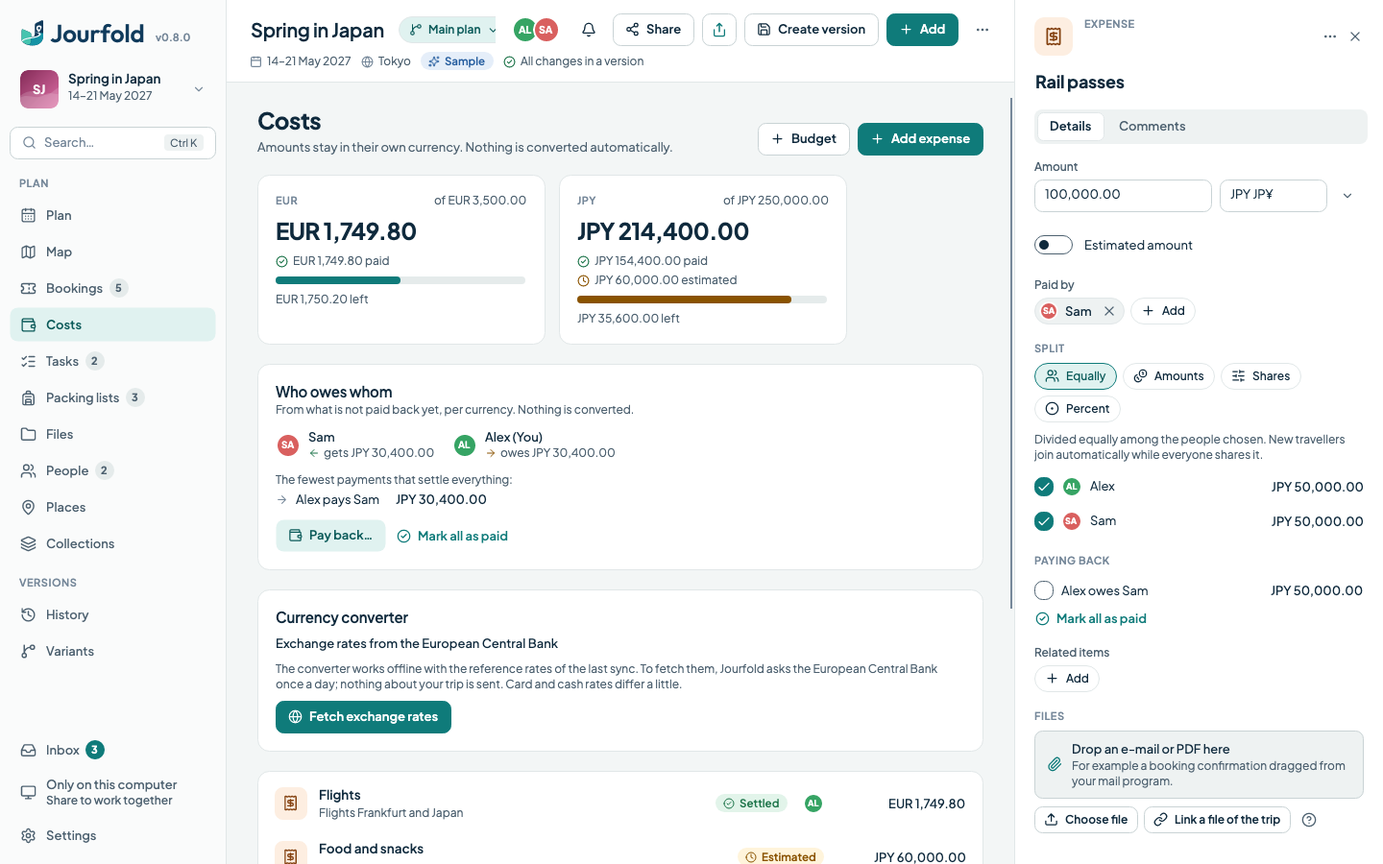
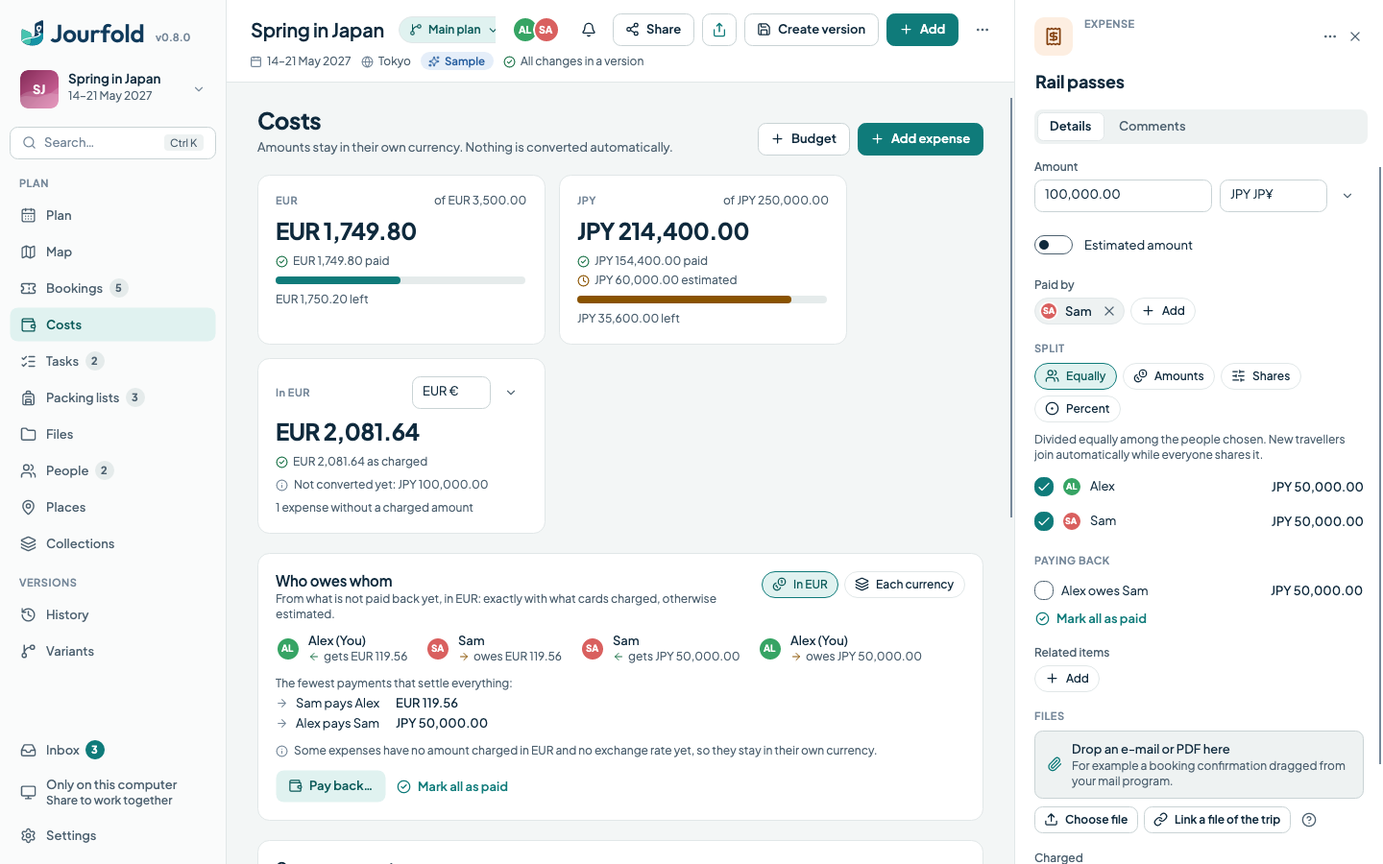
Expenses keep what the card charged, and costs and paying back show in euros
The details of an expense in another currency take the amount the card
statement shows in the home currency; the rate is kept with it. Costs add
a total in the home currency, which is chosen there, and who owes whom
and the pay function work in it: exactly where a charged amount was
entered, otherwise estimated with reference rates and marked with ≈.
"Each currency" shows debts in their own currencies. The phone shows the
charged amount. The sample trip has two card amounts in euros, and the
costs screenshot is refreshed.

diff --git a/src/Jourfold.Desktop/Views/ExpenseViews.cs b/src/Jourfold.Desktop/Views/ExpenseViews.cs
@@ -148,8 +148,17 @@ public static class ExpenseViews
     {
         var m = w.Model; var s = m.Strings; var trip = m.Trip!;
         if (Expenses.Debts(trip).Count == 0) return null;
-        var balances = Expenses.Balances(trip);
-        var body = Ui.V(12, Ui.V(2, Ui.Text(s["WhoOwesWhom"], "h3"), Ui.Text(s["WhoOwesWhomHint"], "caption").Also(t => t.TextWrapping = TextWrapping.Wrap)));
+        var balances = Expenses.Balances(trip, m.SettleCurrency, m.EstimateRates);
+        var heading = Ui.V(2, Ui.Text(s["WhoOwesWhom"], "h3"), Ui.Text(m.SettleInHomeCurrency ? string.Format(s["WhoOwesWhomHintIn"], m.HomeCurrency) : s["WhoOwesWhomHint"], "caption").Also(t => t.TextWrapping = TextWrapping.Wrap));
+        // With expenses in more than one currency, debts can be shown in the home currency or each in its own.
+        Control? toggle = null;
+        if (Expenses.Debts(trip).Select(d => d.Currency).Append(m.HomeCurrency).Distinct().Count() > 1)
+        {
+            var home = Ui.Choice(string.Format(s["SettleInHome"], m.HomeCurrency), "coins", m.SettleInHomeCurrency, "chip"); home.Click += (_, _) => m.SettleInHomeCurrency = true;
+            var each = Ui.Choice(s["SettlePerCurrency"], "layers", !m.SettleInHomeCurrency, "chip"); each.Click += (_, _) => m.SettleInHomeCurrency = false;
+            toggle = Ui.H(6, home, each).Also(p => AutomationProperties.SetName(p, s["SettleIn"]));
+        }
+        var body = Ui.V(12, Ui.Columns("*,Auto", heading, toggle?.Also(t => t.VerticalAlignment = VerticalAlignment.Top)));
         if (balances.Count == 0)
         {
             body.Children.Add(Notice("circle-check", "Success", s["AllEven"]));
@@ -160,21 +169,77 @@ public static class ExpenseViews
         {
             var name = Name(trip, b.Person) + (m.Me?.Id == b.Person ? " (" + s["You"] + ")" : "");
             var owed = b.Net > 0;
-            var line = string.Format(s[owed ? "BalanceOwed" : "BalanceOwes"], Formats.Money(Math.Abs(b.Net), b.Currency));
+            var line = string.Format(s[owed ? "BalanceOwed" : "BalanceOwes"], (b.Estimated ? "≈ " : "") + Formats.Money(Math.Abs(b.Net), b.Currency));
             people.Children.Add(Ui.H(8, Ui.Avatar(Name(trip, b.Person), 26), Ui.V(0, Ui.Line(name, "strong"), Ui.H(4, Ui.Icon(owed ? "arrow-left" : "arrow-right", 12, owed ? "Success" : "Warning"), Ui.Line(line, "caption")))));
         }
         body.Children.Add(people);
-        var transfers = Expenses.SettleUp(trip);
+        var transfers = Expenses.SettleUp(trip, m.SettleCurrency, m.EstimateRates);
         var plan = Ui.V(4, Ui.Text(s["SettleUpHint"], "caption"));
         foreach (var t in transfers)
-            plan.Children.Add(Ui.H(8, Ui.Icon("arrow-right", 13, "Text.Subtle").Also(i => i.VerticalAlignment = VerticalAlignment.Center), Ui.Line(string.Format(s["PaysTo"], Name(trip, t.From), Name(trip, t.To))), Ui.Text(Formats.Money(t.Amount, t.Currency), "strong").Margin(8, 0, 0, 0)));
+            plan.Children.Add(Ui.H(8, Ui.Icon("arrow-right", 13, "Text.Subtle").Also(i => i.VerticalAlignment = VerticalAlignment.Center), Ui.Line(string.Format(s["PaysTo"], Name(trip, t.From), Name(trip, t.To))), Ui.Text((t.Estimated ? "≈ " : "") + Formats.Money(t.Amount, t.Currency), "strong").Margin(8, 0, 0, 0)));
         body.Children.Add(plan);
+        // Estimates are named in words, and what could not be converted at all stays in its own currency.
+        if (transfers.Any(t => t.Estimated)) body.Children.Add(Notice("info", "Text.Subtle", s["EstimatedWithRates"]));
+        else if (m.SettleCurrency is { } target && transfers.Any(t => t.Currency != target)) body.Children.Add(Notice("info", "Text.Subtle", string.Format(s["NotConvertedHint"], target)));
         var pay = Ui.Button(s["PayBack"], "wallet", "soft"); ToolTip.SetTip(pay, s["PayBackHint"]);
         pay.Click += (_, _) => _ = m.PayAsync();
         var settle = Ui.Button(s["SettleAll"], "circle-check", "link");
         settle.Click += (_, _) => _ = m.SettleAllAsync();
         body.Children.Add(Ui.H(10, pay, settle));
         return Ui.Card(body, 18);
+    }
+
+    /// <summary>
+    /// What the card actually charged for an expense in another currency than the home currency: typed as on the
+    /// statement, saved with the rate and the day. Null when the expense is in the home currency.
+    /// </summary>
+    public static Control? Charged(MainWindow w, Entity expense)
+    {
+        var m = w.Model; var s = m.Strings; var home = m.HomeCurrency;
+        if (TripSummaries.Money(expense.Data["amount"]) is not { Amount: not 0 } money) return null;
+        var charge = Expenses.ChargeOf(expense);
+        if (money.Currency == home && charge is null) return null;
+        var currency = charge?.Currency ?? home;
+        var shown = charge is { } c ? c.Value.ToString("N2", System.Globalization.CultureInfo.CurrentCulture) : "";
+        var box = new TextBox { Text = shown, Width = 130, HorizontalContentAlignment = HorizontalAlignment.Right, PlaceholderText = "0.00", Tag = "charged" };
+        AutomationProperties.SetName(box, string.Format(s["ChargedIn"], currency));
+        var original = shown;
+        async Task Commit()
+        {
+            if ((box.Text ?? "").Trim() == original.Trim()) return;
+            if (await m.SetChargeAsync(expense.Id, box.Text, currency)) { box.Classes.Remove("invalid"); original = box.Text ?? ""; }
+            else box.Classes.Add("invalid");
+        }
+        box.LostFocus += async (_, _) => await Commit();
+        box.KeyDown += async (_, e) => { if (e.Key == Key.Enter) { e.Handled = true; await Commit(); } if (e.Key == Key.Escape) { box.Text = original; e.Handled = true; } };
+        var panel = Ui.V(6, Ui.H(6, box, Ui.Text(currency, "caption").Also(t => t.VerticalAlignment = VerticalAlignment.Center)));
+        panel.Children.Add(charge is { } done
+            ? Ui.Text(string.Format(s["ChargedRate"], money.Currency, done.Rate.ToString("0.####", System.Globalization.CultureInfo.CurrentCulture), done.Currency) + (done.Date is { } day ? " · " + Formats.Date(day) : ""), "caption")
+            : Ui.Text(string.Format(s["ChargedHint"], money.Currency, currency), "caption").Also(t => t.TextWrapping = TextWrapping.Wrap));
+        return panel;
+    }
+
+    /// <summary>
+    /// The paid expenses in the home currency: exact where amounts are in it or were charged in it, otherwise estimated
+    /// with reference rates when allowed, and what is still in another currency. Null when everything is in the home currency.
+    /// </summary>
+    public static Control? HomeTotal(MainWindow w)
+    {
+        var m = w.Model; var s = m.Strings; var trip = m.Trip!; var home = m.HomeCurrency;
+        var expenses = trip.Entities.Values.Where(e => e.Type == "expense" && TripSummaries.Money(e.Data["amount"]) is not null).ToArray();
+        if (expenses.All(e => TripSummaries.Money(e.Data["amount"])!.Currency == home)) return null;
+        var total = Expenses.Total(trip, home, m.EstimateRates);
+        // The home currency is chosen here; amounts charged keep the currency they were entered in.
+        var choice = new SearchChoice(Editors.Currencies, home, s["HomeCurrency"]) { Width = 120 };
+        void Choose() { if (choice.Value is { } code && code != m.HomeCurrency) m.HomeCurrency = code; }
+        choice.Input.SelectionChanged += (_, _) => Choose(); choice.Input.LostFocus += (_, _) => Choose();
+        var body = Ui.V(8, Ui.Columns("*,Auto", Ui.Text(string.Format(s["InCurrency"], home), "overline").Also(t => t.VerticalAlignment = VerticalAlignment.Center), choice),
+            Ui.Text((total.Estimated > 0 ? "≈ " : "") + Formats.Money(total.Total, home), "h1"),
+            Ui.H(5, Ui.Icon("circle-check", 13, "Success"), Ui.Text(string.Format(s["ExactlyCharged"], Formats.Money(total.Exact, home)), "caption")));
+        if (total.Estimated > 0) body.Children.Add(Ui.H(5, Ui.Icon("clock", 13, "Warning"), Ui.Text(string.Format(s["EstimatedAmountRates"], Formats.Money(total.Estimated, home)), "caption")));
+        if (total.NotConverted.Count > 0) body.Children.Add(Notice("info", "Text.Subtle", string.Format(s["NotConvertedYet"], string.Join(" + ", total.NotConverted.Select(x => Formats.Money(x.Amount, x.Currency))))));
+        if (total.WithoutCharge > 0) body.Children.Add(Ui.Text((total.WithoutCharge == 1 ? s["WithoutChargeOne"] : string.Format(s["WithoutChargeCount"], total.WithoutCharge)), "caption").Also(t => t.TextWrapping = TextWrapping.Wrap));
+        return Ui.Card(body, 18).Also(c => c.Width = 300);
     }
 
     private static Control Notice(string icon, string brush, string text) =>

diff --git a/src/Jourfold.Desktop/MainViewModel.Costs.cs b/src/Jourfold.Desktop/MainViewModel.Costs.cs
@@ -12,6 +12,57 @@ public partial class MainViewModel
     /// <summary>Today in the trip's time zone, the day a payment is recorded on.</summary>
     public LocalDate Today => SystemClock.Instance.GetCurrentInstant().InZone(Trip is { } trip ? ScheduleQueries.TripZone(trip) : DateTimeZone.Utc).Date;
 
+    /// <summary>
+    /// The currency the travellers count in at home, such as EUR: what a card charged is entered in it, and costs and
+    /// paying back can be shown in it. Kept on this computer; the region's currency until chosen.
+    /// </summary>
+    public string HomeCurrency
+    {
+        get => Store.Get("costs.home") is { Length: 3 } code ? code : ChargedCurrency() ?? SystemCurrency;
+        set { if (ExchangeRates.Code(value) is { } code) { Store.Set("costs.home", code); ContentChanged?.Invoke(this, EventArgs.Empty); } }
+    }
+
+    /// <summary>The currency most amounts in the trip were charged in, which is the travellers' home currency.</summary>
+    private string? ChargedCurrency() => Trip is { } trip ? trip.Entities.Values.Where(e => e.Type == "expense").Select(Expenses.ChargeOf).OfType<Charge>()
+        .GroupBy(c => c.Currency).OrderByDescending(g => g.Count()).ThenBy(g => g.Key, StringComparer.Ordinal).FirstOrDefault()?.Key : null;
+
+    /// <summary>The currency of the computer's region, read before Jourfold sets its own language for the interface.</summary>
+    private static readonly string SystemCurrency = ReadSystemCurrency();
+
+    // A static constructor makes the region be read before the first instance sets the interface culture.
+    static MainViewModel() { }
+
+    private static string ReadSystemCurrency()
+    {
+        try { return System.Globalization.RegionInfo.CurrentRegion.ISOCurrencySymbol is { Length: 3 } code ? code : "EUR"; }
+        catch (ArgumentException) { return "EUR"; }
+    }
+
+    /// <summary>Whether who owes whom is shown in <see cref="HomeCurrency"/> (the default) or in each expense's own currency.</summary>
+    public bool SettleInHomeCurrency
+    {
+        get => Store.Get("costs.settle") != "each";
+        set { Store.Set("costs.settle", value ? "home" : "each"); ContentChanged?.Invoke(this, EventArgs.Empty); }
+    }
+
+    /// <summary>The currency debts are settled in, or null for each expense's own; see <see cref="Expenses.Balances"/>.</summary>
+    public string? SettleCurrency => SettleInHomeCurrency ? HomeCurrency : null;
+
+    /// <summary>Reference rates for estimates where no charged amount was entered, only when the person allowed fetching them.</summary>
+    public ExchangeRates? EstimateRates => RatesOn ? Rates : null;
+
+    /// <summary>
+    /// Records what the card actually charged for an expense, as typed ("190,40" works), in <paramref name="currency"/>
+    /// on today's date; empty text removes it. Text that is no number changes nothing.
+    /// </summary>
+    public async Task<bool> SetChargeAsync(Guid expenseId, string? text, string currency)
+    {
+        if (string.IsNullOrWhiteSpace(text)) { await EditExpenseAsync(expenseId, (_, e) => Expenses.WithoutCharge(e)); return true; }
+        if (ExchangeRates.Amount(text) is not { } value) return false;
+        await EditExpenseAsync(expenseId, (_, e) => Expenses.WithCharge(e, value, currency, Today));
+        return true;
+    }
+
     public Task SetSplitMethodAsync(Guid expenseId, SplitMethod method) => EditExpenseAsync(expenseId, (trip, e) => Expenses.ChangeMethod(trip, e, method));
 
     public Task SetSplitPersonAsync(Guid expenseId, Guid person, bool shares) => EditExpenseAsync(expenseId, (trip, e) => Expenses.WithPerson(trip, e, person, shares));
@@ -41,7 +92,7 @@ public partial class MainViewModel
         var people = TripPeople.Travelers(trip).Concat(trip.Entities.Values.Where(e => e.Type == "person")).DistinctBy(p => p.Id).ToArray();
         var who = person ?? Me?.Id ?? people.FirstOrDefault(p => Expenses.Open(trip, p.Id).Count > 0)?.Id;
         if (who is null || people.Length == 0) return;
-        var answer = await Interaction.PayAsync(new PayRequest(trip, people, who.Value, Me?.Id));
+        var answer = await Interaction.PayAsync(new PayRequest(trip, people, who.Value, Me?.Id) { Currency = SettleCurrency, Rates = EstimateRates });
         if (answer is null || answer.Items.Count == 0) return;
         var items = Expenses.Pay(Workspace.State.Trip, answer.Person, answer.Items).Items.Select(i => i.Key).ToArray();
         if (items.Length == 0) return;

diff --git a/tests/Jourfold.Tests/ExpenseSplitTests.cs b/tests/Jourfold.Tests/ExpenseSplitTests.cs
@@ -119,6 +119,64 @@ public sealed class ExpenseSplitTests : IDisposable
         Assert.Empty(Expenses.Open(m.Trip!)); Assert.Empty(Expenses.SettleUp(m.Trip!));
     }
 
+    [AvaloniaFact]
+    public async Task WhatTheCardChargedIsKeptAndUsedToSettleInEuros()
+    {
+        using var store = new LocalStore(Path.Combine(root, "local")); var interaction = new TestInteraction();
+        using var m = new MainViewModel(store, new GitCliBackend(), new OsSecretStore(), interaction); m.SetPreference("Language", "en");
+        var (path, p) = await Trip(); await m.OpenAsync(path);
+        m.HomeCurrency = "EUR";
+        var tour = Expense("Hobbiton", "300.00", "NZD", p.Ana); await m.Workspace!.EditAsync(tour);
+
+        // Nothing charged yet and no rates: who owes whom stays in NZD.
+        Assert.All(Expenses.SettleUp(m.Trip!, m.SettleCurrency, m.EstimateRates), t => Assert.Equal("NZD", t.Currency));
+        Assert.False(await m.SetChargeAsync(tour.Id, "lots", "EUR"));
+        Assert.True(await m.SetChargeAsync(tour.Id, "168,30", "EUR"));
+        var charge = Expenses.ChargeOf(m.Trip!.Find(tour.Id)!)!;
+        Assert.Equal((168.30m, "EUR", 0.561m, m.Today), (charge.Value, charge.Currency, charge.Rate, charge.Date!.Value));
+        // Ben and Cleo each owe a third of what the card charged, exactly.
+        var transfers = Expenses.SettleUp(m.Trip!, m.SettleCurrency, m.EstimateRates);
+        Assert.Equal([56.10m, 56.10m], transfers.Select(t => t.Amount));
+        Assert.All(transfers, t => Assert.True(t.Currency == "EUR" && !t.Estimated));
+
+        // The pay function pays in euros too, and each expense's own currency is still there to choose.
+        interaction.Pay = request => { Assert.Equal("EUR", request.Currency); Assert.Equal([new Transfer(p.Ben.Id, p.Ana.Id, "EUR", 56.10m)], Expenses.Pay(request.Trip, request.Person, Expenses.Open(request.Trip, request.Person).Select(d => d.Key), request.Currency, request.Rates).Payments); return null; };
+        await m.PayAsync(p.Ben.Id);
+        m.SettleInHomeCurrency = false;
+        Assert.All(Expenses.SettleUp(m.Trip!, m.SettleCurrency, m.EstimateRates), t => Assert.Equal("NZD", t.Currency));
+        m.SettleInHomeCurrency = true;
+
+        Assert.True(await m.SetChargeAsync(tour.Id, "", "EUR"));
+        Assert.Null(m.Trip!.Find(tour.Id)!.Data["converted"]);
+    }
+
+    [AvaloniaTheory]
+    [InlineData("en", "Amount charged in EUR", "as charged", "In EUR")]
+    [InlineData("de", "Abgebuchter Betrag in EUR", "wie abgebucht", "In EUR")]
+    public async Task TheChargedAmountIsEnteredInTheDetailsAndTotalledInEuros(string language, string field, string exact, string chip)
+    {
+        var w = await Window(language, "Light"); var m = w.Model;
+        try
+        {
+            m.HomeCurrency = "EUR";
+            var boat = m.Trip!.Entities.Values.Single(e => e.Title.StartsWith("Boat", StringComparison.Ordinal));
+            await m.SetSplitMethodAsync(boat.Id, SplitMethod.Equal);
+            m.Navigate("Costs"); m.Selected = m.Trip!.Find(boat.Id); Probe.ShowDetails(w);
+            var inspector = w.FindControl<Control>("InspectorHost")!;
+            TextBox? box = null;
+            await Probe.Until(() => (box = Probe.All<TextBox>(inspector).FirstOrDefault(b => AutomationProperties.GetName(b) == field)) is not null);
+            box!.Text = "33,60"; box.RaiseEvent(new Avalonia.Input.KeyEventArgs { RoutedEvent = Avalonia.Input.InputElement.KeyDownEvent, Key = Avalonia.Input.Key.Enter });
+            await Probe.Until(() => Expenses.ChargeOf(m.Trip!.Find(boat.Id)!) is { Value: 33.60m });
+            m.Navigate("Plan"); m.Navigate("Costs");
+            var texts = Texts(w).ToArray();
+            Assert.Contains(texts, t => t.EndsWith(exact, StringComparison.Ordinal) && t.Contains("123", StringComparison.Ordinal));
+            Assert.Contains(Probe.All<Button>(w), b => AutomationProperties.GetName(b) == chip);
+            // Everything is in euros now and nothing is estimated.
+            Assert.DoesNotContain(texts, t => t.StartsWith("≈", StringComparison.Ordinal));
+        }
+        finally { w.Close(); }
+    }
+
     private async Task<MainWindow> Window(string language, string theme)
     {
         var (path, p) = await Trip();

diff --git a/src/Jourfold.Desktop/Dialogs/Dialogs.Costs.cs b/src/Jourfold.Desktop/Dialogs/Dialogs.Costs.cs
@@ -26,12 +26,13 @@ public sealed partial class Dialogs
         void Summarize()
         {
             result.Children.Clear();
-            var plan = Expenses.Pay(trip, person, chosen);
+            var plan = Expenses.Pay(trip, person, chosen, request.Currency, request.Rates);
             ok.IsEnabled = plan.Items.Count > 0;
             result.Children.Add(Ui.Text(S["PayResult"], "label"));
             if (plan.Items.Count == 0) { result.Children.Add(Ui.Text(S["PayNothing"], "caption")); return; }
             foreach (var p in plan.Payments)
-                result.Children.Add(Ui.Columns("Auto,*,Auto", Ui.Icon("arrow-right", 13, "Text.Subtle").Margin(0, 0, 8, 0), Ui.Line(string.Format(S["PaysTo"], Name(p.From), Name(p.To))), Ui.Text(Formats.Money(p.Amount, p.Currency), "strong")));
+                result.Children.Add(Ui.Columns("Auto,*,Auto", Ui.Icon("arrow-right", 13, "Text.Subtle").Margin(0, 0, 8, 0), Ui.Line(string.Format(S["PaysTo"], Name(p.From), Name(p.To))), Ui.Text((p.Estimated ? "≈ " : "") + Formats.Money(p.Amount, p.Currency), "strong")));
+            if (plan.Payments.Any(p => p.Estimated)) result.Children.Add(Ui.Text(S["EstimatedWithRates"], "caption").Also(t => t.TextWrapping = TextWrapping.Wrap));
             foreach (var (currency, total) in plan.Totals.OrderBy(t => t.Key, StringComparer.Ordinal))
                 result.Children.Add(Ui.Text(total == 0 ? string.Format(S["PayEven"], Name(person)) : string.Format(S[total > 0 ? "PayTotalPays" : "PayTotalGets"], Name(person), Formats.Money(Math.Abs(total), currency)), "strong").Margin(0, 4, 0, 0));
             if (plan.Payments.Count == 0 && plan.Totals.Count == 0) result.Children.Add(Ui.Text(string.Format(S["PayEven"], Name(person)), "strong"));

diff --git a/src/Jourfold.Application/SampleTrip.cs b/src/Jourfold.Application/SampleTrip.cs
@@ -159,8 +159,11 @@ public static class SampleTrip
         var flightCost = Money("expense", "Flights", "1749.80", "EUR", payer: alex); flightCost.Data["related"] = new JsonArray(new JsonObject { ["type"] = "booking", ["id"] = flights.Id.ToString() });
         // Divided equally between both travellers; Sam has already paid back their half of the flights.
         flightCost.Data["settled"] = new JsonArray(new JsonObject { ["person"] = sam.Id.ToString(), ["to"] = alex.Id.ToString(), ["value"] = "874.90", ["date"] = start.PlusDays(-30).ToString("yyyy-MM-dd", CultureInfo.InvariantCulture) });
-        Money("expense", "Hotel Gracery deposit", "46800", "JPY", payer: alex);
-        Money("expense", "teamLab tickets", "7600", "JPY", payer: sam);
+        // What the cards charged in euros, so costs and paying back can be shown in euros.
+        var deposit = Money("expense", "Hotel Gracery deposit", "46800", "JPY", payer: alex);
+        deposit.Data["converted"] = new JsonObject { ["value"] = "285.48", ["currency"] = "EUR", ["rate"] = "0.0061", ["rate_date"] = start.PlusDays(-20).ToString("yyyy-MM-dd", CultureInfo.InvariantCulture), ["source"] = "card" };
+        var tickets = Money("expense", "teamLab tickets", "7600", "JPY", payer: sam);
+        tickets.Data["converted"] = new JsonObject { ["value"] = "46.36", ["currency"] = "EUR", ["rate"] = "0.0061", ["rate_date"] = start.PlusDays(-12).ToString("yyyy-MM-dd", CultureInfo.InvariantCulture), ["source"] = "card" };
         Money("expense", "Rail passes", "100000", "JPY", payer: sam);
         Money("expense", "Food and snacks", "60000", "JPY", estimated: true);
         Money("budget", "Trip budget", "3500.00", "EUR");

diff --git a/src/Jourfold.Desktop/Views/CollectionViews.cs b/src/Jourfold.Desktop/Views/CollectionViews.cs
@@ -99,6 +99,7 @@ public static class CollectionViews
             }
             tiles.Children.Add(Ui.Card(body, 18).Also(c => c.Width = 300));
         }
+        if (ExpenseViews.HomeTotal(w) is { } home) tiles.Children.Add(home);
         var list = Ui.V(2);
         foreach (var e in expenses.Concat(budgets))
         {
@@ -109,7 +110,7 @@ public static class CollectionViews
             var shared = e.Type == "expense" && !estimated ? ExpenseViews.Status(s, Expenses.Split(trip, e)) : null;
             var grid = Ui.Columns("Auto,*,Auto,Auto,140",
                 Ui.Tile(e.Type == "budget" ? "piggy-bank" : "receipt", e.Type == "budget" ? "Nature" : "Food", 34).Margin(0, 0, 12, 0),
-                Ui.V(2, Ui.Line(e.Title, "title"), Ui.Line(e.Type == "budget" ? s["budget"] : related ?? (payers.Length > 0 ? string.Format(s["PaidBy"], string.Join(", ", payers)) : ""), "caption")),
+                Ui.V(2, Ui.Line(e.Title, "title"), Ui.Line(string.Join(" · ", new[] { e.Type == "budget" ? s["budget"] : related ?? (payers.Length > 0 ? string.Format(s["PaidBy"], string.Join(", ", payers)) : ""), Expenses.ChargeOf(e) is { } charge ? string.Format(s["ChargedShort"], Formats.Money(charge.Value, charge.Currency)) : null }.Where(x => !string.IsNullOrEmpty(x))), "caption")),
                 estimated ? Ui.Pill(s["Estimated"], "clock", "Warning.Soft", "Warning").Margin(8, 0) : shared?.Margin(8, 0),
                 payers.Length > 0 ? Ui.AvatarStack(payers, 22).Margin(8, 0) : null,
                 Ui.Text(money is null ? "" : Formats.Money(money.Amount, money.Currency), "strong").Also(t => { t.HorizontalAlignment = HorizontalAlignment.Right; }));

diff --git a/src/Jourfold.Desktop/Interaction.cs b/src/Jourfold.Desktop/Interaction.cs
@@ -33,7 +33,12 @@ public sealed record ExportSetup(IReadOnlyList<Entity> People, Entity? Me, IRead
 /// <param name="UnassignedOnly">Only the packing items nobody brings yet.</param>
 public sealed record ExportChoice(string Kind, string Format, TravelRepo.Repository.ExportOptions Options, string Language, IReadOnlyList<Guid> Lists, IReadOnlyList<Guid> People, bool UnassignedOnly);
 /// <summary>What the pay function offers: the trip, the people to pay for, who starts chosen, and the local user.</summary>
-public sealed record PayRequest(TripSnapshot Trip, IReadOnlyList<Entity> People, Guid Person, Guid? Me);
+public sealed record PayRequest(TripSnapshot Trip, IReadOnlyList<Entity> People, Guid Person, Guid? Me)
+{
+    /// <summary>The currency to pay in, or null for each expense's own; amounts charged convert exactly, others with <see cref="Rates"/> as estimates.</summary>
+    public string? Currency { get; init; }
+    public ExchangeRates? Rates { get; init; }
+}
 /// <summary>The open items a person chose to settle now.</summary>
 public sealed record PayAnswer(Guid Person, IReadOnlyList<DebtKey> Items);
 public sealed record FormField(string Key, string Label, string Kind = "text", string Value = "", IReadOnlyList<Choice>? Choices = null, bool Required = false, string? Hint = null);

diff --git a/src/Jourfold.Mobile/Views/MorePages.cs b/src/Jourfold.Mobile/Views/MorePages.cs
@@ -598,6 +598,8 @@ public static class MorePages
             var body = Ui.V(10);
             if (Names(trip, expense.Data["paid_by"]) is { Length: > 0 } payers) body.Children.Add(DetailView.Row("user", string.Format(CultureInfo.CurrentCulture, str["PaidBy"], payers), null));
             if (expense.Data["body"]?.ToString() is { Length: > 0 } notes) body.Children.Add(DetailView.Row("sticky-note", notes, null, s));
+            if (Expenses.ChargeOf(expense) is { } charge)
+                body.Children.Add(DetailView.Row("wallet", string.Format(CultureInfo.CurrentCulture, str["ChargedShort"], Formats.Money(charge.Value, charge.Currency)), money is null ? null : string.Format(CultureInfo.CurrentCulture, str["ChargedRate"], money.Currency, charge.Rate.ToString("0.####", CultureInfo.CurrentCulture), charge.Currency)));
             // Everyone's part, and a box per debt to mark it as paid back, large enough to tap.
             var split = Expenses.Split(trip, expense);
             if (split.Shares.Count > 0 && money is not null)

diff --git a/src/Jourfold.Desktop/Views/InspectorView.cs b/src/Jourfold.Desktop/Views/InspectorView.cs
@@ -211,7 +211,7 @@ public static class InspectorView
                     body.Children.Add(Field(s["Related"], Related(w, e)));
                     // A receipt photographed on the phone, or one dropped here.
                     Add(body, s["Files"], Confirmations(w, e));
-                    if (e.Data["converted"] is JsonObject converted) body.Children.Add(Field(s["Converted"], Ui.Text(converted["value"] + " " + converted["currency"] + " · " + string.Format(s["RateOn"], converted["rate"], converted["rate_date"]), "muted")));
+                    if (ExpenseViews.Charged(w, e) is { } charged) body.Children.Add(Field(s["Charged"], charged));
                 }
                 else body.Children.Add(Field(s["BudgetScope"], Editors.Choice(w, e.Id, "scope", s["BudgetScope"], e.Data["scope"]?.ToString(), ["trip", "category", "participant", "collection"])));
                 break;

diff --git a/docs/user-guide.md b/docs/user-guide.md
@@ -69,7 +69,7 @@ The bell next to the people in the header counts reminders: free cancellation de
 
 ## Bookings, costs, tasks and files
 
-**Bookings** lists reservations with their reference (click the copy icon), price, travellers and status. Bookings and plans have a **Confirmations and files** section: drag a confirmation e-mail or PDF onto it, or choose a file. Thunderbird, eM Client and Apple Mail let you drag an e-mail directly; Gmail and Outlook on the web download it as an `.eml` file first, and classic Outlook can print it to PDF. The help button next to the area explains each. Click a confirmation to open it in Jourfold's document window, which stays open beside the plan. It shows PDFs page by page with zoom and search (Ctrl+F), and e-mails with sender, date, attachments and the message in its original layout; **Text** shows the plain text instead, and Jourfold remembers your choice. An attachment can be opened there or added to the trip next to the e-mail. Scripts, forms and frames in an e-mail are removed, and images from the internet are only loaded when you choose **Load images** for that e-mail, because loading them tells the sender that you opened it. Links ask before they open and show where they really go. An e-mail laid out wider than the window is shrunk to fit. **Costs** totals expenses per currency and compares them with budgets. Amounts stay in their own currency. An expense is divided equally among all travellers unless you change its **Split**, right when you add it or later in the details: equally among some people, by amounts, by shares (such as 2 for a couple) or by percent. If the parts do not add up, the details say how much is left and the list shows **Check split**. **Paying back** in the details lists who owes whom for that expense; tick a line once it is paid back. **Who owes whom** on the Costs page shows each person's balance per currency and the fewest payments that settle everything. **Pay back…** opens the pay function: choose a person and the open items to settle now, see what that comes to after what two people owe each other is set off, and mark them as paid in one step. **Mark all as paid** is for when everyone has made the payments shown. Estimates are divided only once they are paid, and nothing is converted between currencies. The **Currency converter** below the totals works offline with the European Central Bank's reference rates, which Jourfold fetches at most twice a day after you allow it (also under Settings, **Weather**); nothing about the trip is sent. A booking lists the plans it is for; adding or removing one there changes the plan as well. **Tasks** works like a checklist; type a task and press Enter. Packing lists have their own page (see below). **Files** shows attached tickets, PDFs and photos. Drop files anywhere on the window to add them.
+**Bookings** lists reservations with their reference (click the copy icon), price, travellers and status. Bookings and plans have a **Confirmations and files** section: drag a confirmation e-mail or PDF onto it, or choose a file. Thunderbird, eM Client and Apple Mail let you drag an e-mail directly; Gmail and Outlook on the web download it as an `.eml` file first, and classic Outlook can print it to PDF. The help button next to the area explains each. Click a confirmation to open it in Jourfold's document window, which stays open beside the plan. It shows PDFs page by page with zoom and search (Ctrl+F), and e-mails with sender, date, attachments and the message in its original layout; **Text** shows the plain text instead, and Jourfold remembers your choice. An attachment can be opened there or added to the trip next to the e-mail. Scripts, forms and frames in an e-mail are removed, and images from the internet are only loaded when you choose **Load images** for that e-mail, because loading them tells the sender that you opened it. Links ask before they open and show where they really go. An e-mail laid out wider than the window is shrunk to fit. **Costs** totals expenses per currency and compares them with budgets. Amounts stay in their own currency. An expense is divided equally among all travellers unless you change its **Split**, right when you add it or later in the details: equally among some people, by amounts, by shares (such as 2 for a couple) or by percent. If the parts do not add up, the details say how much is left and the list shows **Check split**. **Paying back** in the details lists who owes whom for that expense; tick a line once it is paid back. **Who owes whom** on the Costs page shows each person's balance per currency and the fewest payments that settle everything. **Pay back…** opens the pay function: choose a person and the open items to settle now, see what that comes to after what two people owe each other is set off, and mark them as paid in one step. **Mark all as paid** is for when everyone has made the payments shown. Estimates are divided only once they are paid. For a payment in another currency, enter under **Charged** in its details what the card statement shows in your home currency; the rate is kept with it. Costs then also show a total in the home currency (chosen on that card), and **Who owes whom** and **Pay back…** work in it: exactly where a charged amount was entered, otherwise estimated with reference rates if you allowed them, marked with ≈. **Each currency** shows debts in their own currencies instead. Nothing is converted silently. The **Currency converter** below the totals works offline with the European Central Bank's reference rates, which Jourfold fetches at most twice a day after you allow it (also under Settings, **Weather**); nothing about the trip is sent. A booking lists the plans it is for; adding or removing one there changes the plan as well. **Tasks** works like a checklist; type a task and press Enter. Packing lists have their own page (see below). **Files** shows attached tickets, PDFs and photos. Drop files anywhere on the window to add them.
 
 ### Packing lists
 

diff --git a/docs/screenshots.md b/docs/screenshots.md
@@ -40,9 +40,9 @@ The map before online maps are enabled. Places and routes come from the trip's o
 
 ![Offline map with places, train and flight routes and the prompt to show a street map](screenshots/map.png)
 
-Costs per currency with budgets, who owes whom with the fewest payments that settle it, the currency converter, which waits for permission to fetch exchange rates, and an expense divided equally between both travellers:
+Costs per currency with budgets, the total in euros from what the cards charged, and who owes whom with the fewest payments that settle it, with an expense divided equally between both travellers:
 
-![Costs page with totals for euros and yen, budget progress, who owes whom with Alex paying Sam in yen, the currency converter asking to fetch exchange rates, and the start of the expense list with the flights marked as settled; the inspector shows the rail passes with the split chips, each traveller's part and the line to mark as paid back](screenshots/costs.png)
+![Costs page with totals for euros and yen with budget progress, a total in euros with the home currency chooser and the rail passes not converted yet, and who owes whom in euros and, for the rail passes, in yen, with the buttons to pay back and to mark all as paid; the inspector shows the rail passes with the split chips, each traveller's part and the line to mark as paid back](screenshots/costs.png)
 
 A packing list with groups, who brings what, what each person has packed, and one item nobody has taken yet:
 
